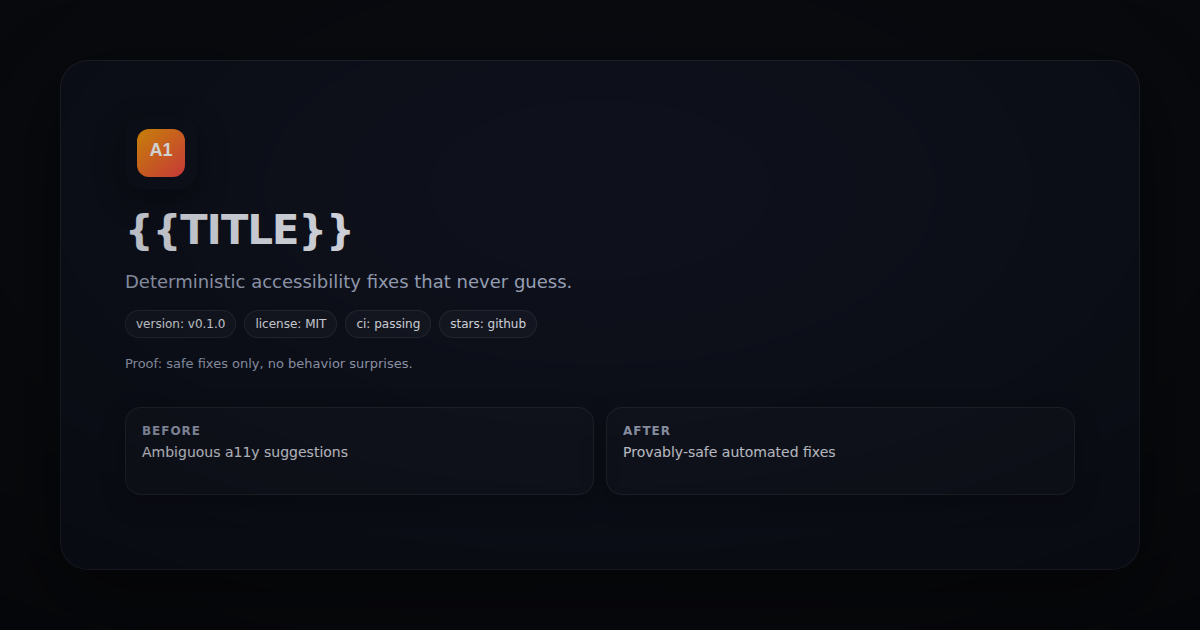
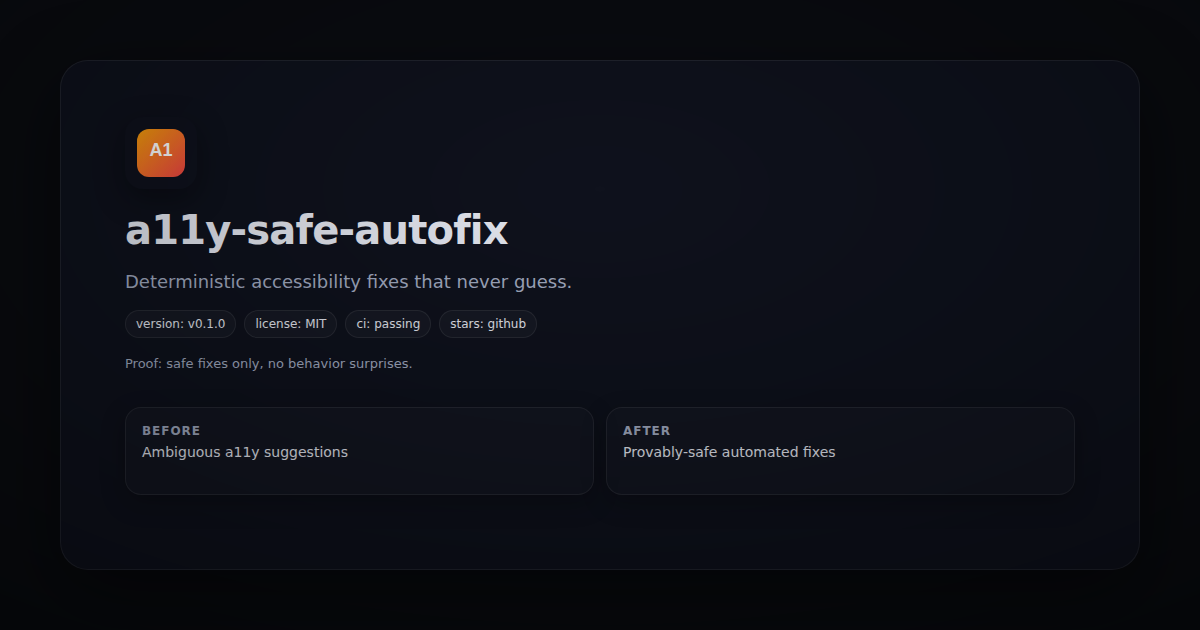
chore: update visuals

Changed region(s): [[0.0925, 0.3317, 0.4317, 0.3921]]

diff --git a/assets/.hero.html b/assets/.hero.html
@@ -80,7 +80,7 @@ body { width: var(--w); height: var(--h); display: grid; place-items: center; }
 <body class="vignette" style="--w: 1600px; --h: 900px; --accent-a: #f59e0b; --accent-b: #ef4444;">
   <div class="canvas">
     <div class="logo"><svg xmlns="http://www.w3.org/2000/svg" width="48" height="48" viewBox="0 0 48 48"><defs><linearGradient id="g" x1="0" y1="0" x2="1" y2="1"><stop stop-color="#f59e0b"/><stop offset="1" stop-color="#ef4444"/></linearGradient></defs><rect width="48" height="48" rx="12" fill="url(#g)"/><text x="50%" y="56%" text-anchor="middle" font-family="Inter, Arial" font-size="18" font-weight="800" fill="white">A1</text></svg></div>
-    <div class="title">{{TITLE}}</div>
+    <div class="title">a11y-safe-autofix</div>
     <div class="tagline">Deterministic accessibility fixes that never guess.</div>
     <div class="badges"><span class="badge">version: v0.1.0</span><span class="badge">license: MIT</span><span class="badge">ci: passing</span><span class="badge">stars: github</span></div>
     <div class="proof">Proof: safe fixes only, no behavior surprises.</div>

diff --git a/assets/.og.html b/assets/.og.html
@@ -80,7 +80,7 @@ body { width: var(--w); height: var(--h); display: grid; place-items: center; }
 <body class="vignette" style="--w: 1200px; --h: 630px; --accent-a: #f59e0b; --accent-b: #ef4444;">
   <div class="canvas">
     <div class="logo"><svg xmlns="http://www.w3.org/2000/svg" width="48" height="48" viewBox="0 0 48 48"><defs><linearGradient id="g" x1="0" y1="0" x2="1" y2="1"><stop stop-color="#f59e0b"/><stop offset="1" stop-color="#ef4444"/></linearGradient></defs><rect width="48" height="48" rx="12" fill="url(#g)"/><text x="50%" y="56%" text-anchor="middle" font-family="Inter, Arial" font-size="18" font-weight="800" fill="white">A1</text></svg></div>
-    <div class="title">{{TITLE}}</div>
+    <div class="title">a11y-safe-autofix</div>
     <div class="tagline">Deterministic accessibility fixes that never guess.</div>
     <div class="badges"><span class="badge">version: v0.1.0</span><span class="badge">license: MIT</span><span class="badge">ci: passing</span><span class="badge">stars: github</span></div>
     <div class="proof">Proof: safe fixes only, no behavior surprises.</div>
